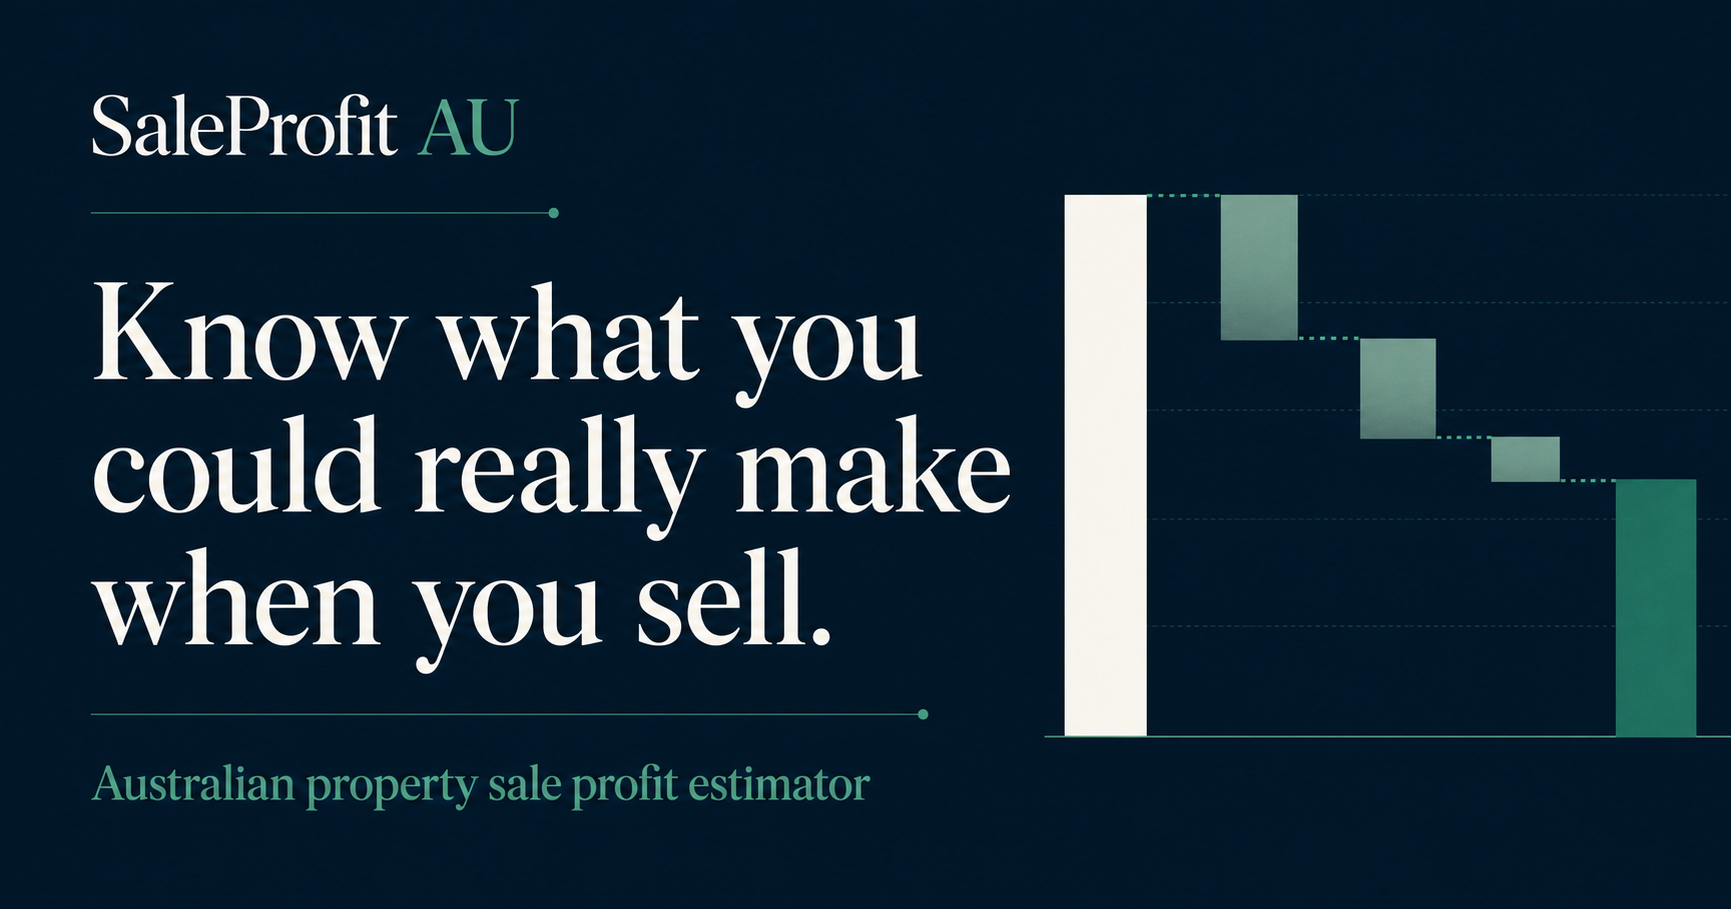
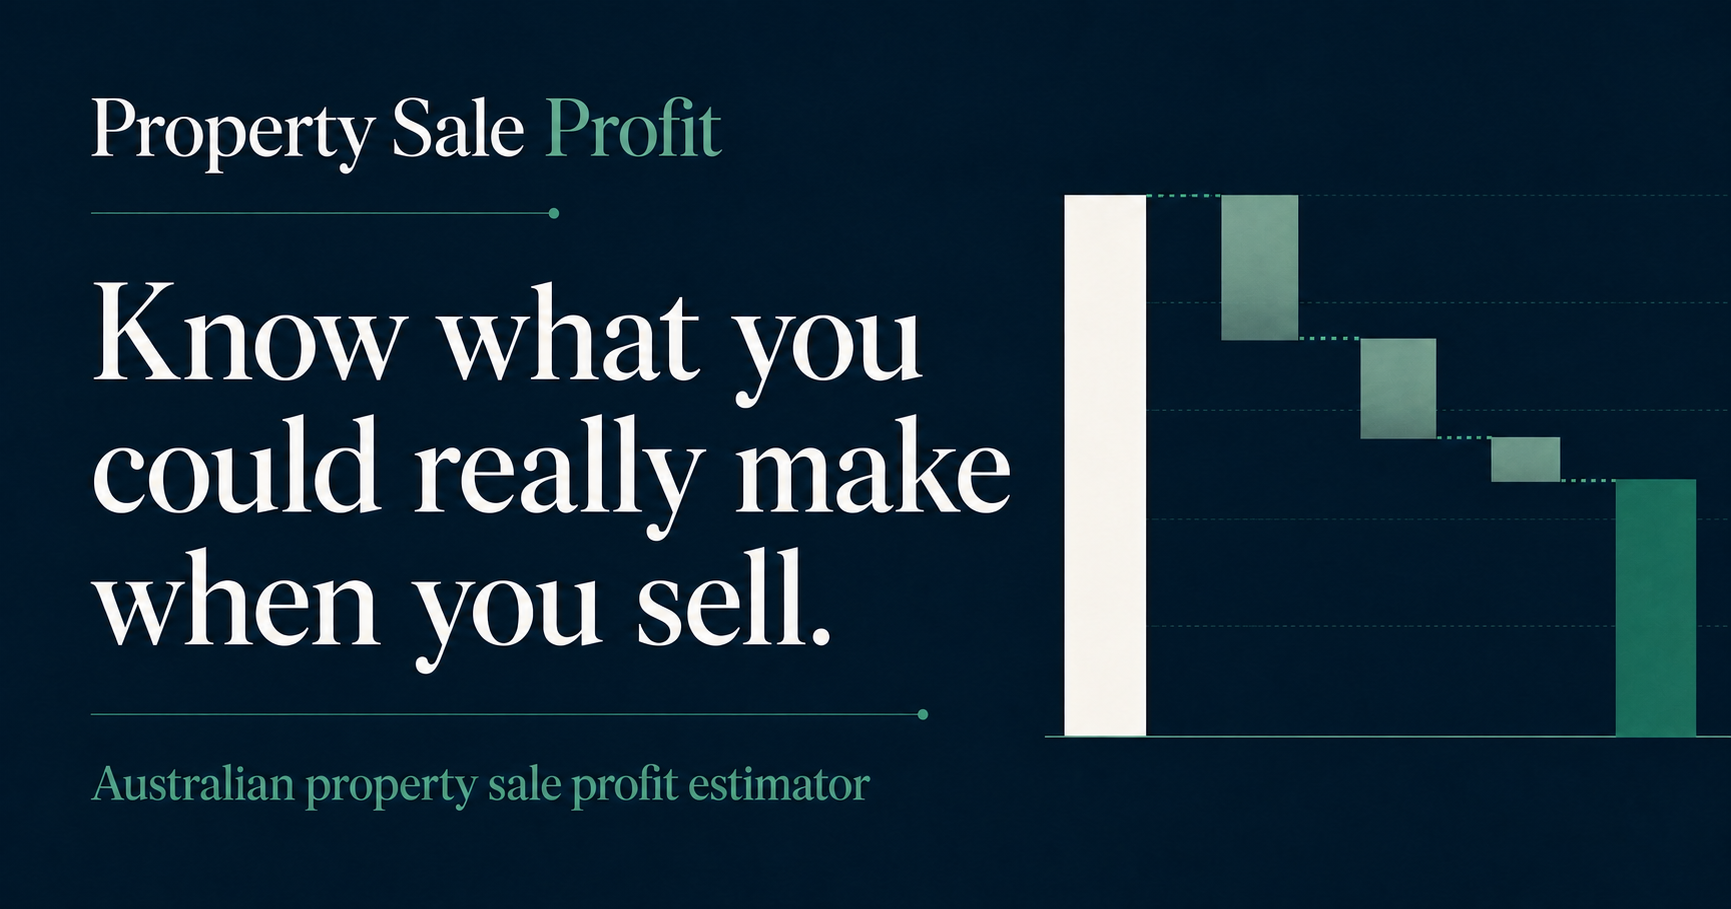
Unify public brand with custom domain

diff --git a/app/disclaimer/page.tsx b/app/disclaimer/page.tsx
@@ -1,6 +1,6 @@
 export const metadata = {
-  title: "Important Information | SaleProfit AU",
-  description: "Important limitations of the SaleProfit AU calculator.",
+  title: "Important Information | Property Sale Profit",
+  description: "Important limitations of the Property Sale Profit calculator.",
 };
 
 export default function DisclaimerPage() {
@@ -11,11 +11,15 @@ export default function DisclaimerPage() {
         <span>This calculator is under active development.</span>
       </aside>
       <header className="site-header">
-        <Link className="brand" href="/" aria-label="SaleProfit AU home">
+        <Link
+          className="brand"
+          href="/"
+          aria-label="Property Sale Profit home"
+        >
           <span className="brand-mark" aria-hidden="true">
-            S
+            P
           </span>
-          <span>SaleProfit AU</span>
+          <span>Property Sale Profit</span>
         </Link>
         <nav className="header-nav" aria-label="Privacy and legal information">
           <Link className="header-link" href="/privacy">
@@ -28,7 +32,7 @@ export default function DisclaimerPage() {
         <span className="eyebrow">Important information</span>
         <h1>Use this estimate as a starting point only</h1>
         <p className="legal-intro">
-          SaleProfit AU is a free, general information tool. It is not a
+          Property Sale Profit is a free, general information tool. It is not a
           substitute for advice that considers your circumstances.
         </p>
 

diff --git a/app/privacy/page.tsx b/app/privacy/page.tsx
@@ -1,6 +1,7 @@
 export const metadata = {
-  title: "Privacy | SaleProfit AU",
-  description: "How SaleProfit AU handles calculator inputs and technical data.",
+  title: "Privacy | Property Sale Profit",
+  description:
+    "How Property Sale Profit handles calculator inputs and technical data.",
 };
 
 export default function PrivacyPage() {
@@ -11,11 +12,15 @@ export default function PrivacyPage() {
         <span>This privacy notice applies to the current beta release.</span>
       </aside>
       <header className="site-header">
-        <Link className="brand" href="/" aria-label="SaleProfit AU home">
+        <Link
+          className="brand"
+          href="/"
+          aria-label="Property Sale Profit home"
+        >
           <span className="brand-mark" aria-hidden="true">
-            S
+            P
           </span>
-          <span>SaleProfit AU</span>
+          <span>Property Sale Profit</span>
         </Link>
         <nav className="header-nav" aria-label="Privacy and legal information">
           <Link className="header-link" href="/disclaimer">

diff --git a/app/layout.tsx b/app/layout.tsx
@@ -3,10 +3,10 @@ import { headers } from "next/headers";
 import "./globals.css";
 
 const baseMetadata: Metadata = {
-  title: "SaleProfit AU | Australian Property Sale Profit Estimator",
+  title: "Property Sale Profit | Australian Property Sale Profit Estimator",
   description:
     "Estimate your Australian property sale proceeds, selling costs, pre-tax profit and an optional indicative CGT scenario—privately in your browser.",
-  applicationName: "SaleProfit AU",
+  applicationName: "Property Sale Profit",
   keywords: [
     "Australian property sale profit calculator",
     "property selling costs Australia",
@@ -21,7 +21,7 @@ const baseMetadata: Metadata = {
   },
   twitter: {
     card: "summary_large_image",
-    title: "SaleProfit AU",
+    title: "Property Sale Profit",
     description:
       "Estimate sale proceeds and property profit with only the detail you need.",
   },

diff --git a/tests/e2e/compliance.spec.ts b/tests/e2e/compliance.spec.ts
@@ -4,6 +4,12 @@ test("labels the site as a beta and avoids certainty claims", async ({ page }) =
   await page.goto("/");
 
   await expect(
+    page.getByRole("link", { name: "Property Sale Profit home" }),
+  ).toBeVisible();
+  await expect(page).toHaveTitle(
+    "Property Sale Profit | Australian Property Sale Profit Estimator",
+  );
+  await expect(
     page.getByLabel("Public beta notice").getByText("Public beta", {
       exact: true,
     }),
@@ -118,6 +124,9 @@ test("legal pages remain readable without horizontal overflow on mobile", async 
 
   for (const path of ["/privacy", "/disclaimer"]) {
     await page.goto(path);
+    await expect(
+      page.getByRole("link", { name: "Property Sale Profit home" }),
+    ).toBeVisible();
     const hasHorizontalOverflow = await page.evaluate(
       () => document.documentElement.scrollWidth > window.innerWidth,
     );

diff --git a/app/page.tsx b/app/page.tsx
@@ -296,11 +296,11 @@ export default function Home() {
       </aside>
 
       <header className="site-header">
-        <a className="brand" href="#top" aria-label="SaleProfit AU home">
+        <a className="brand" href="#top" aria-label="Property Sale Profit home">
           <span className="brand-mark" aria-hidden="true">
-            S
+            P
           </span>
-          <span>SaleProfit AU</span>
+          <span>Property Sale Profit</span>
         </a>
         <nav className="header-nav" aria-label="Privacy and legal information">
           <Link className="header-link" href="/privacy">

diff --git a/README.md b/README.md
@@ -1,4 +1,4 @@
-# SaleProfit AU
+# Property Sale Profit
 
 [![CI](https://github.com/dairuifromcd/australian_property_sale_profit_estimator/actions/workflows/ci.yml/badge.svg)](https://github.com/dairuifromcd/australian_property_sale_profit_estimator/actions/workflows/ci.yml)
 
@@ -9,15 +9,15 @@ scenario.
 The hosted site is currently a public beta. Search indexing is disabled while
 the calculator, model documentation, and compliance material are being reviewed.
 
-![SaleProfit AU calculator preview](public/readme-screenshot.jpg)
+![Property Sale Profit calculator preview](public/readme-screenshot.jpg)
 
 ## Why this exists
 
 Sale price minus purchase price is not the same as profit. Agent commission,
 CGT-eligible selling costs, sale preparation, buying costs, capital
 improvements, property use, and tax treatment can materially change the result.
-SaleProfit AU makes those moving parts visible while keeping the first estimate
-to four inputs.
+Property Sale Profit makes those moving parts visible while keeping the first
+estimate to four inputs.
 
 ## Current features
 
@@ -176,7 +176,7 @@ short-lived branch such as `feat/settlement-cash` for each change. See
 
 ## Disclaimer
 
-SaleProfit AU provides indicative estimates for exploration and education. It
+Property Sale Profit provides indicative estimates for exploration and education. It
 does not provide financial, legal, property valuation, settlement, or tax
 advice. Confirm material decisions with appropriately qualified Australian
 professionals.

diff --git a/CONTRIBUTING.md b/CONTRIBUTING.md
@@ -1,6 +1,6 @@
 # Contributing
 
-Thanks for helping improve SaleProfit AU. Changes should keep the calculator
+Thanks for helping improve Property Sale Profit. Changes should keep the calculator
 easy to understand, privacy-preserving, and explicit about uncertainty.
 
 ## Workflow
